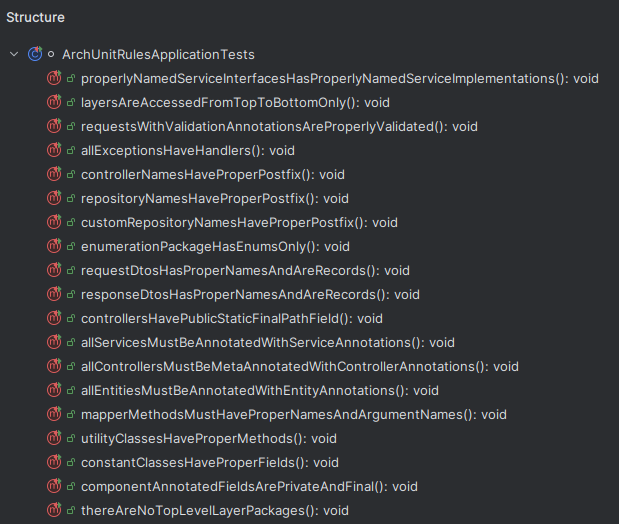
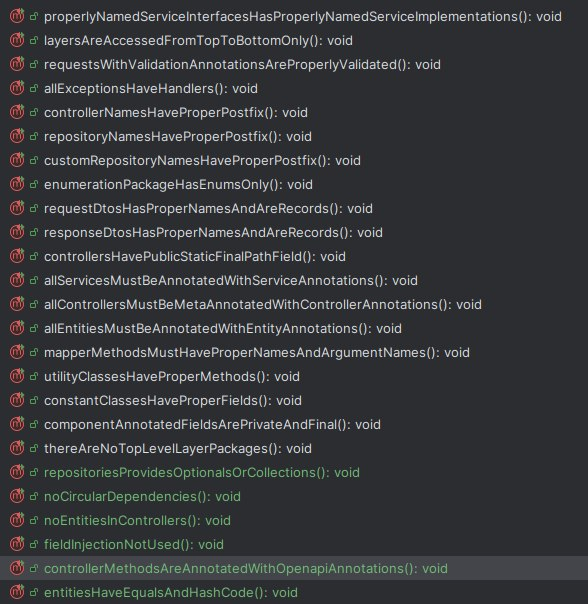
-

Changed region(s): [[0.0, 0.0, 1.0, 1.0], [0.9184, 0.0, 0.949, 0.0611]]

diff --git a/src/test/java/com/example/archunitrules/ArchUnitRulesApplicationTests.java b/src/test/java/com/example/archunitrules/ArchUnitRulesApplicationTests.java
@@ -4,35 +4,49 @@ import com.example.archunitrules.common.exception.BaseParametrizedException;
 import com.tngtech.archunit.base.DescribedPredicate;
 import com.tngtech.archunit.core.domain.*;
 import com.tngtech.archunit.core.importer.ClassFileImporter;
+import com.tngtech.archunit.core.importer.ImportOption;
 import com.tngtech.archunit.lang.ArchCondition;
 import com.tngtech.archunit.lang.ArchRule;
 import com.tngtech.archunit.lang.ConditionEvents;
 import com.tngtech.archunit.lang.SimpleConditionEvent;
 import com.tngtech.archunit.library.Architectures.LayeredArchitecture;
+import io.swagger.v3.oas.annotations.Operation;
+import io.swagger.v3.oas.annotations.responses.ApiResponse;
 import jakarta.persistence.Entity;
 import jakarta.persistence.Table;
 import jakarta.validation.Valid;
 import lombok.Generated;
 import org.junit.jupiter.api.Test;
+import org.springframework.beans.factory.annotation.Autowired;
+import org.springframework.data.domain.Page;
+import org.springframework.data.domain.Pageable;
+import org.springframework.data.jpa.repository.JpaRepository;
 import org.springframework.stereotype.Component;
 import org.springframework.stereotype.Controller;
 import org.springframework.stereotype.Service;
 import org.springframework.web.bind.annotation.ControllerAdvice;
 import org.springframework.web.bind.annotation.ExceptionHandler;
 import org.springframework.web.bind.annotation.RequestBody;
+import org.springframework.web.bind.annotation.RequestMapping;
 
 import java.util.Arrays;
 import java.util.Collection;
+import java.util.List;
+import java.util.Optional;
 import java.util.stream.Stream;
 
+import static com.tngtech.archunit.base.DescribedPredicate.anyElementThat;
 import static com.tngtech.archunit.core.domain.JavaClass.Predicates.resideInAPackage;
 import static com.tngtech.archunit.core.domain.properties.CanBeAnnotated.Predicates.annotatedWith;
 import static com.tngtech.archunit.core.domain.properties.CanBeAnnotated.Predicates.metaAnnotatedWith;
 import static com.tngtech.archunit.lang.syntax.ArchRuleDefinition.*;
 import static com.tngtech.archunit.library.Architectures.layeredArchitecture;
+import static com.tngtech.archunit.library.dependencies.SlicesRuleDefinition.slices;
 
 class ArchUnitRulesApplicationTests {
-    JavaClasses classes = new ClassFileImporter().importPackages("com.example.archunitrules");
+    JavaClasses classes = new ClassFileImporter()
+            .withImportOption(ImportOption.Predefined.DO_NOT_INCLUDE_TESTS)
+            .importPackages("com.example.archunitrules");
 
     @Test
     void properlyNamedServiceInterfacesHasProperlyNamedServiceImplementations() {
@@ -436,5 +450,150 @@ class ArchUnitRulesApplicationTests {
                 "com.example.archunitrules.handler"
         );
         noTopLevelLayerPackagesRule.allowEmptyShould(true).check(classes);
+    }
+
+    @Test
+    void repositoriesProvidesOptionalsOrCollections() {
+        ArchRule repositoryMethodsReturnTypesRule = methods()
+                .that().areDeclaredInClassesThat().areAssignableTo(JpaRepository.class)
+                .should().haveRawReturnType(thatIsCollection())
+                .orShould().haveRawReturnType(Optional.class)
+                .orShould().haveRawReturnType(Page.class);
+        ArchRule pageableMethodArgumentsRule = methods()
+                .that().areDeclaredInClassesThat().areAssignableTo(JpaRepository.class)
+                .and().haveRawReturnType(Page.class)
+                .should(haveLastParameterOfType(Pageable.class));
+        repositoryMethodsReturnTypesRule.allowEmptyShould(true).check(classes);
+        pageableMethodArgumentsRule.allowEmptyShould(true).check(classes);
+    }
+
+    private DescribedPredicate<JavaClass> thatIsCollection() {
+        return new DescribedPredicate<>("is collection") {
+            @Override
+            public boolean test(JavaClass javaClass) {
+                return javaClass.isAssignableTo(Collection.class);
+            }
+        };
+    }
+
+    private ArchCondition<JavaMethod> haveLastParameterOfType(Class<?> expectedType) {
+        return new ArchCondition<>("last parameter of type " + expectedType.getName()) {
+            @Override
+            public void check(JavaMethod item, ConditionEvents events) {
+                List<JavaParameter> parameters = item.getParameters();
+                if (parameters.isEmpty()) {
+                    events.add(SimpleConditionEvent.violated(item, "there are no parameters"));
+                    return;
+                }
+                JavaParameter lastParameter = parameters.getLast();
+                if (!lastParameter.getRawType().isAssignableTo(expectedType)) {
+                    String message = String.format(
+                            "Method %s has last parameter of type %s, but expected %s",
+                            item.getFullName(),
+                            lastParameter.getType().getName(),
+                            expectedType.getName()
+                    );
+                    events.add(SimpleConditionEvent.violated(item, message));
+                }
+            }
+        };
+    }
+
+    @Test
+    void noCircularDependencies() {
+        ArchRule noCircularDependenciesRule = slices()
+                .matching("com.example.archunitrules.(*)..")
+                .should().beFreeOfCycles()
+                .ignoreDependency(
+                        DescribedPredicate.alwaysTrue(),
+                        resideInAPackage("..request..")
+                )
+                .ignoreDependency(
+                        DescribedPredicate.alwaysTrue(),
+                        resideInAPackage("..response..")
+                )
+                .because("laskdfjlaskfd");
+        noCircularDependenciesRule.allowEmptyShould(true).check(classes);
+    }
+
+    @Test
+    void noEntitiesInControllers() {
+        ArchRule controllerMethodEntitiesRule = methods()
+                .that().areDeclaredInClassesThat().resideInAPackage("..controller..")
+                .should().notHaveRawReturnType(annotatedWith(Entity.class))
+                .andShould().notHaveRawReturnType(resideInAPackage("..entity"))
+                .andShould(notHave())
+                .andShould().notHaveRawParameterTypes(anyElementThat(annotatedWith(Entity.class)))
+                .andShould().notHaveRawParameterTypes(anyElementThat(resideInAPackage("..entity")))
+                .because("lasdkflaskf");
+        controllerMethodEntitiesRule.allowEmptyShould(true).check(classes);
+    }
+
+    private ArchCondition<? super JavaMethod> notHave() {
+        return new ArchCondition<JavaMethod>("not haven") {
+
+            @Override
+            public void check(JavaMethod item, ConditionEvents events) {
+                System.out.println(item.getTypeParameters());
+                System.out.println(item.getReturnType());
+            }
+        };
+    }
+
+    @Test
+    void fieldInjectionNotUsed() {
+        noFields()
+                .should().beAnnotatedWith(Autowired.class)
+                .because("blablabla")
+                .allowEmptyShould(true)
+                .check(classes);
+    }
+
+    @Test
+    void controllerMethodsAreAnnotatedWithOpenapiAnnotations() {
+        methods().that().areMetaAnnotatedWith(RequestMapping.class)
+                .should().beAnnotatedWith(Operation.class)
+                .andShould().beMetaAnnotatedWith(ApiResponse.class)
+                .because("blablabla")
+                .allowEmptyShould(true)
+                .check(classes);
+    }
+
+    @Test
+    void entitiesHaveEqualsAndHashCode() {
+        classes().that().areAnnotatedWith(Entity.class)
+                .should(haveEqualsMethod())
+                .andShould(haveHashCodeMethod())
+                .because("https://jpa-buddy.com/blog/hopefully-the-final-article-about-equals-and-hashcode-for-jpa-entities-with-db-generated-ids/")
+                .allowEmptyShould(true)
+                .check(classes);
+    }
+
+    private ArchCondition<JavaClass> haveEqualsMethod() {
+        return new ArchCondition<>("equals method") {
+            @Override
+            public void check(JavaClass item, ConditionEvents events) {
+                item.tryGetMethod("equals", Object.class)
+                        .filter(javaMethod -> javaMethod.getReturnType().getName().equals("boolean"))
+                        .ifPresentOrElse(
+                                javaMethod -> {},
+                                () -> events.add(SimpleConditionEvent.violated(item, "no equals method"))
+                        );
+            }
+        };
+    }
+
+    private ArchCondition<? super JavaClass> haveHashCodeMethod() {
+        return new ArchCondition<>("hashCode method") {
+            @Override
+            public void check(JavaClass item, ConditionEvents events) {
+                item.tryGetMethod("hashCode")
+                        .filter(javaMethod -> javaMethod.getReturnType().getName().equals("int"))
+                        .ifPresentOrElse(
+                                javaMethod -> {},
+                                () -> events.add(SimpleConditionEvent.violated(item, "no hashCode method"))
+                        );
+            }
+        };
     }
 }

diff --git a/src/main/java/com/example/archunitrules/entity/Article.java b/src/main/java/com/example/archunitrules/entity/Article.java
@@ -7,7 +7,9 @@ import lombok.Builder;
 import lombok.Getter;
 import lombok.NoArgsConstructor;
 import lombok.experimental.Accessors;
+import org.hibernate.proxy.HibernateProxy;
 
+import java.util.Objects;
 import java.util.UUID;
 
 @Entity
@@ -27,4 +29,26 @@ public class Article {
 
     @Enumerated(EnumType.STRING)
     private AgeRating ageRating;
+
+    @Override
+    public boolean equals(Object another) {
+        if (this == another) return true;
+        if (another == null) return false;
+        Class<?> thisClass = this instanceof HibernateProxy thisHibernateProxy
+                ? thisHibernateProxy.getHibernateLazyInitializer().getPersistentClass()
+                : this.getClass();
+        Class<?> anotherClass = another instanceof HibernateProxy anotherHibernateProxy
+                ? anotherHibernateProxy.getHibernateLazyInitializer().getPersistentClass()
+                : another.getClass();
+        if (thisClass != anotherClass) return false;
+        Article article = (Article) another;
+        return id != null && id.equals(article.id);
+    }
+
+    @Override
+    public int hashCode() {
+        return this instanceof HibernateProxy hibernateProxy
+                ? hibernateProxy.getHibernateLazyInitializer().getPersistentClass().hashCode()
+                : getClass().hashCode();
+    }
 }
